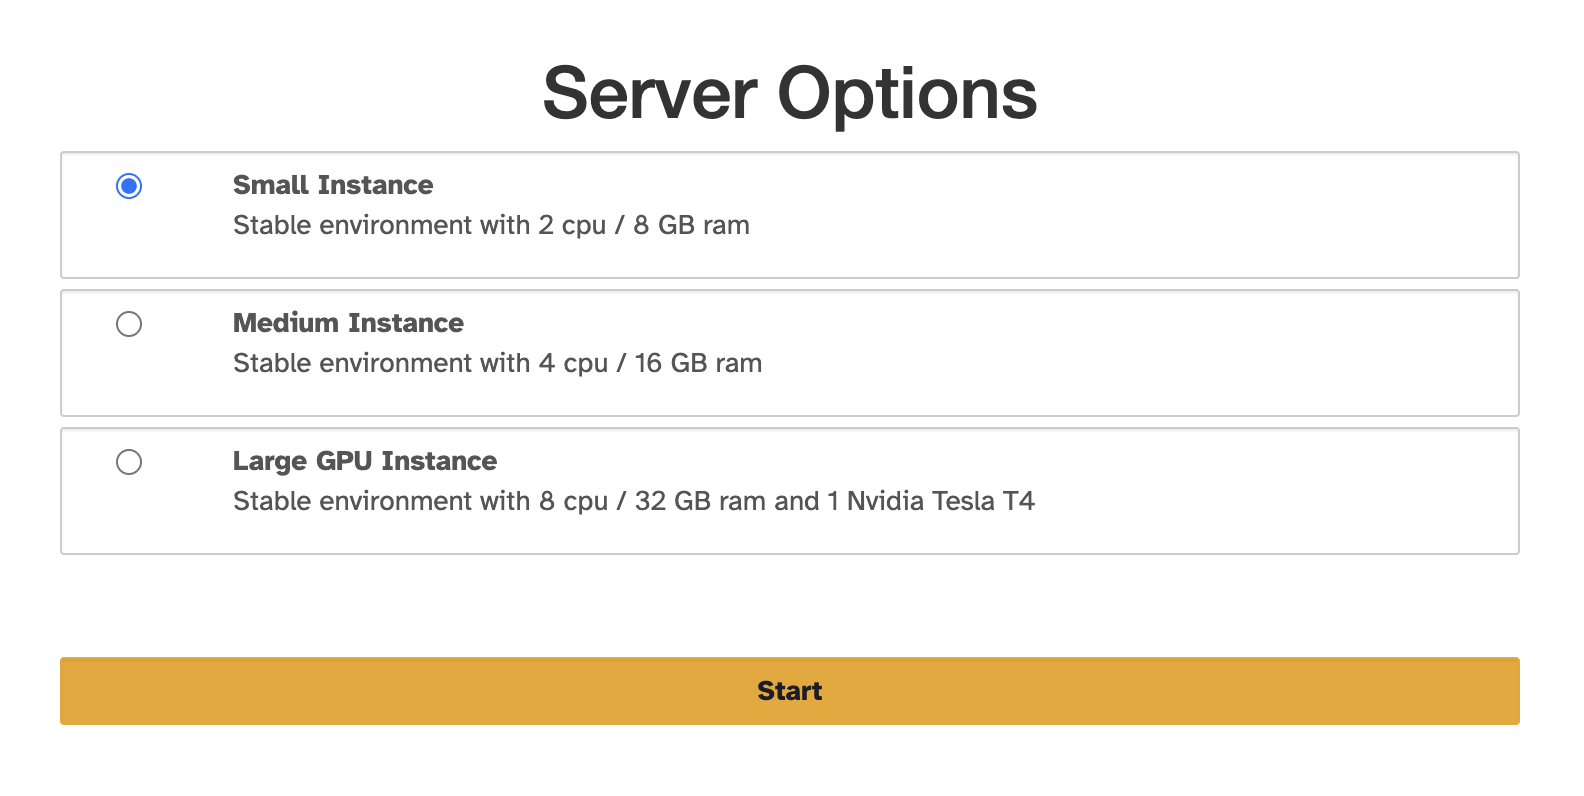
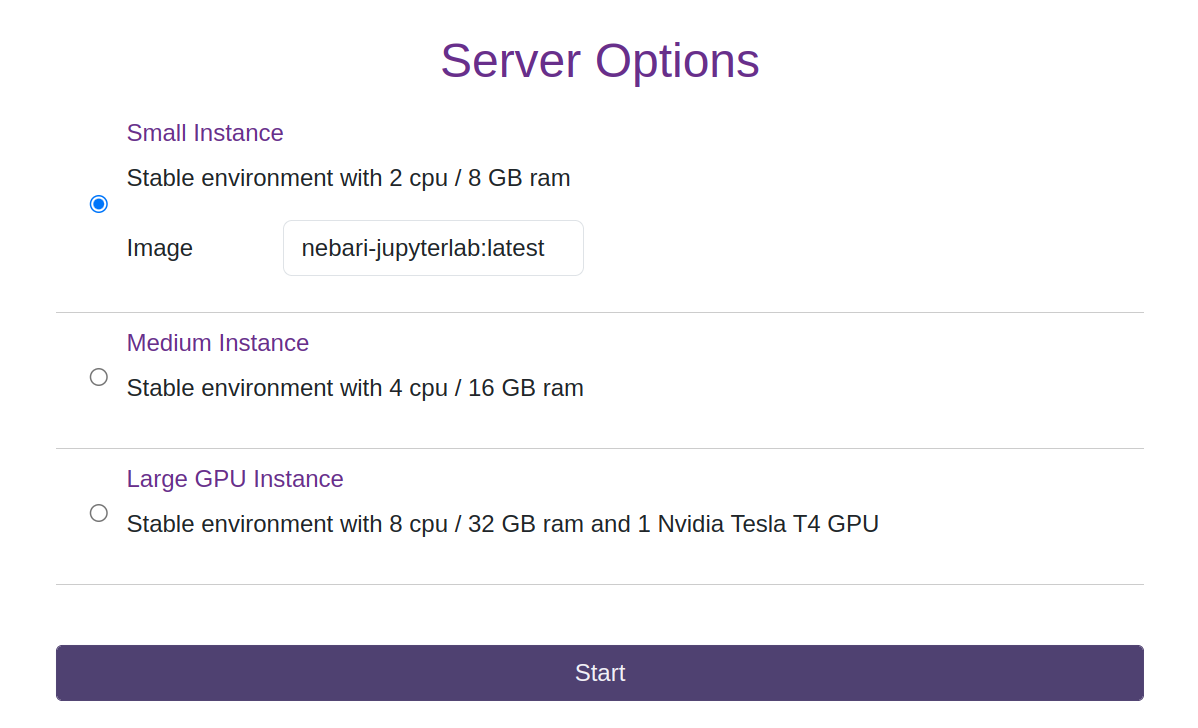
update example

diff --git a/docs/docs/explanations/advanced-profiles-settings.md b/docs/docs/explanations/advanced-profiles-settings.md
@@ -15,27 +15,27 @@ Profiles are used to control the JupyterLab user instances and Dask workers prov
 profiles:
   jupyterlab:
     - display_name: Small Instance
-      description: Stable environment with 1 cpu / 1 GB ram
+      description: Stable environment with 2 cpu / 8 GB ram
       access: all
       default: true
-      profile_options:
+      profile_options:  # optional
         image:
           display_name: Image
           choices:
             default:
-              display_name: quay.io/nebari/nebari-jupyterlab:latest
+              display_name: nebari-jupyterlab:latest
               default: true
               kubespawner_override:
                 image: quay.io/nebari/nebari-jupyterlab:latest
             custom:
-              display_name: <my-container-registry>/myOrg/my-custom-image:mytag
+              display_name: my-custom-image:mytag
               kubespawner_override:
                 image: <my-container-registry>/myOrg/my-custom-image:mytag
       kubespawner_override:
-        cpu_limit: 1
-        cpu_guarantee: 1
-        mem_limit: 1G
-        mem_guarantee: 1G
+        cpu_limit: 2
+        cpu_guarantee: 1.5
+        mem_limit: 8G
+        mem_guarantee: 6G
     - display_name: Medium Instance
     ...
 ```
